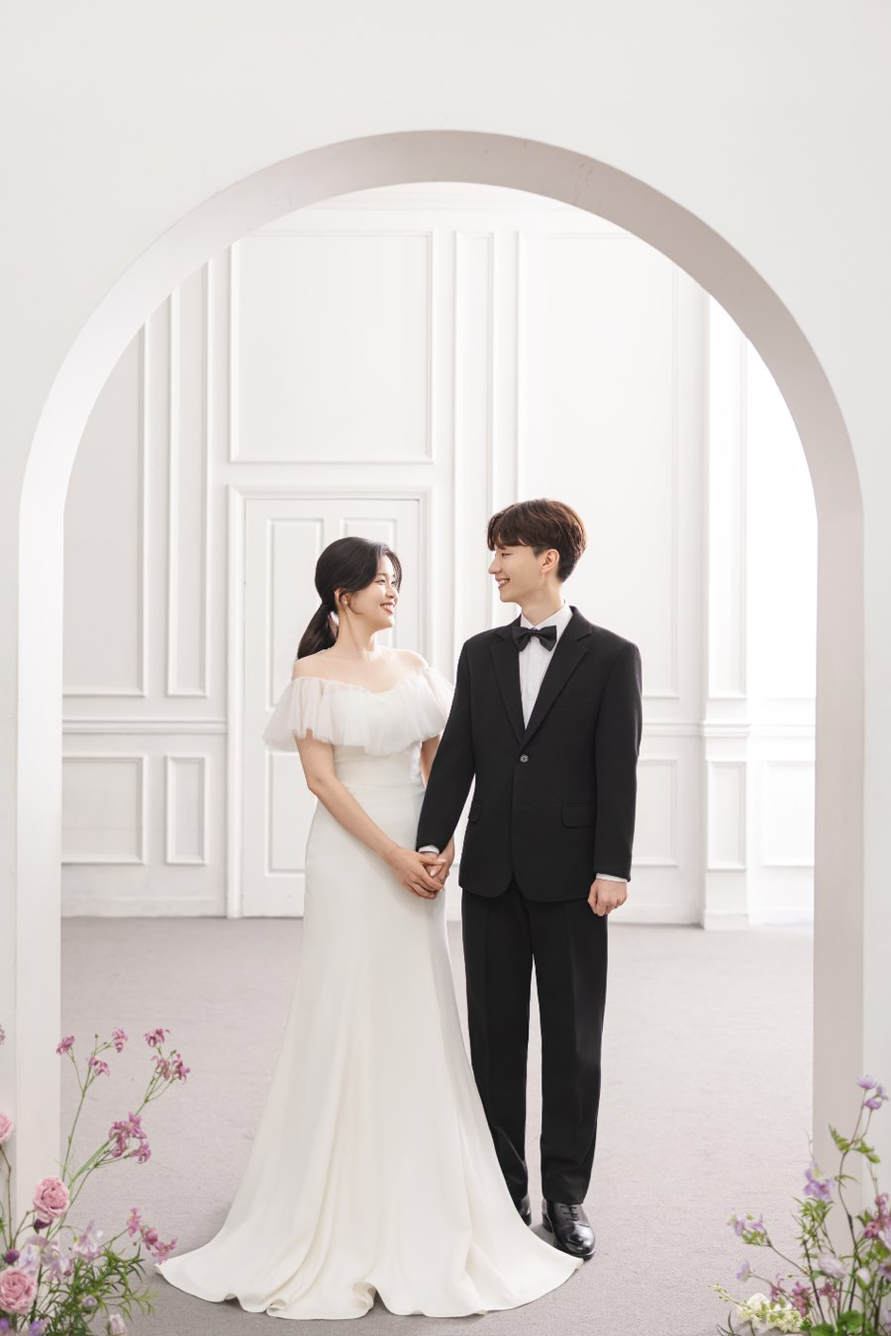
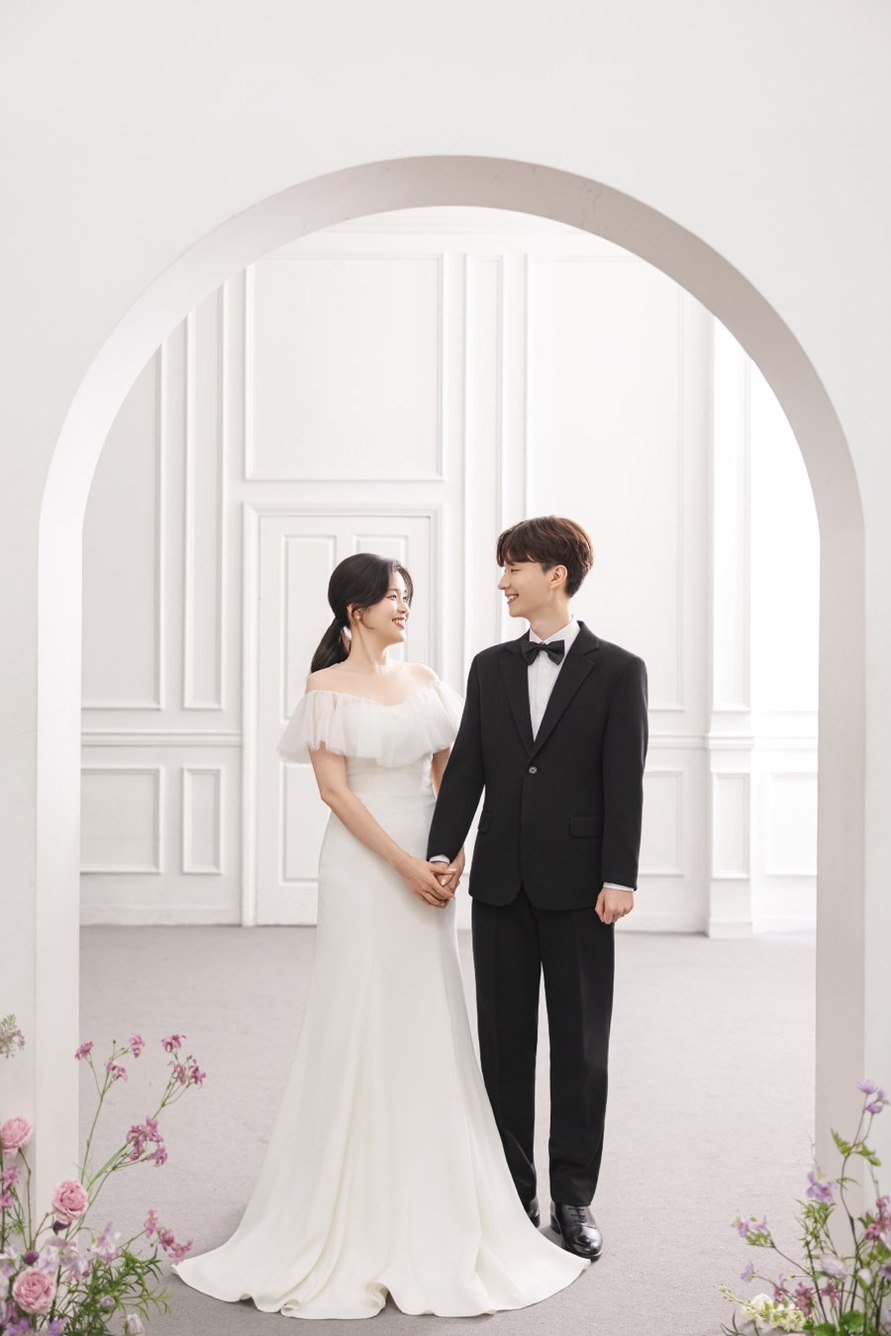
표지 원본을 더 큰 보정본으로 교체 + 크롭을 아치 곡선 기준으로 재정렬
imgs/S_아치두사람.png 을 1054x1584 보정본으로 갈아끼웠습니다 (직전 974x1430
대비 11% 큼). 표지는 전체 화면을 채우는 자리라 해상도가 아쉬웠던 부분입니다.

"왼쪽 아치가 더 내려와 보인다" 는 지적을 재봤습니다. 다리 구간은 좌우
대칭인데(여백 차 -1px) 꼭대기 곡선 구간만 +30px 쯤 틀어져 있었습니다.
카메라가 아치 중심축보다 왼쪽에 있어서 생긴 원근이라 원본을 바꿔도
그대로였습니다 (두 원본 모두 +33/+34/+28/+39 로 동일).

그래서 크롭 기준을 다리에서 곡선으로 옮겼습니다. x0 을 66(다리 기준)부터
106 까지 바꿔가며 화면에서 실측:

  x0= 66  곡선 +32  다리 -1
  x0= 80  곡선 +19  다리 -1
  x0= 93  곡선  +4  다리 -3   <- 채택 (둘 다 균형)
  x0=106  곡선 -13  다리 +33

93 에서 곡선과 다리가 동시에 맞습니다. 최종 렌더 실측 곡선 +6px / 다리 -3px
(교체 전 곡선 +30 안팎).

alt/assets/g05(2:3 갤러리 컷)도 같은 원본에서 다시 뽑았고, alt2 는
../assets/cover.jpg 를 참조해 자동으로 따라옵니다. og.jpg 는 꽃 컷 고정이라
그대로입니다.

캐시 버전 ?v=22 -> ?v=23 (세 페이지 모두).

확인: 세 페이지 19장 로드 실패 0건 / 버전 누락 0건, alt 표지는 꽃 컷
그대로(845x1522), alt2 표지 사진 2장 유지.

Assisted-by: Claude Code (Opus 5)

diff --git a/alt2/index.html b/alt2/index.html
@@ -10,7 +10,7 @@
 <meta property="og:title" content="이수영 ♥ 이정은 결혼합니다">
 <meta property="og:description" content="2026년 12월 12일 토요일 오후 4시, 세인트메리엘 1층 메리엘홀">
 <meta property="og:url" content="https://suyoung-lee.github.io/wedding/">
-<meta property="og:image" content="https://suyoung-lee.github.io/wedding/assets/og.jpg?v=22">
+<meta property="og:image" content="https://suyoung-lee.github.io/wedding/assets/og.jpg?v=23">
 <meta name="description" content="2026년 12월 12일 토요일 오후 4시, 세인트메리엘 1층 메리엘홀">
 <meta name="robots" content="noindex, nofollow">   <!-- 비교용 미리보기 -->
 <meta name="theme-color" content="#fbfaf7">
@@ -288,8 +288,8 @@
   <header class="cover">
     <div class="photo noSave">
       <!-- 아래: 얼굴이 보이는 컷(현재 메인 표지). 위: 꽃으로 가린 컷 — 스크롤하면 걷힙니다. -->
-      <img src="../assets/cover.jpg?v=22" alt="신랑 이수영, 신부 이정은" draggable="false">
-      <img class="veil" src="assets/cover-a.jpg?v=22" alt="" aria-hidden="true" draggable="false">
+      <img src="../assets/cover.jpg?v=23" alt="신랑 이수영, 신부 이정은" draggable="false">
+      <img class="veil" src="assets/cover-a.jpg?v=23" alt="" aria-hidden="true" draggable="false">
     </div>
     <div class="fade"></div>
     <div class="frame"></div>
@@ -360,25 +360,25 @@
   <section>
     <p class="label">Gallery</p>
     <div class="grid collapsed noSave" id="grid">
-      <button class="ph wide" type="button" data-full="../assets/g01.jpg?v=22" aria-label="웨딩 사진 1번, 크게 보기"><img src="../assets/wide.jpg?v=22" alt="" loading="lazy"></button>
-      <button class="ph" type="button" data-full="../assets/g02.jpg?v=22" aria-label="웨딩 사진 2번, 크게 보기"><img src="../assets/t02.jpg?v=22" alt="" loading="lazy"></button>
-      <button class="ph" type="button" data-full="../assets/g03.jpg?v=22" aria-label="웨딩 사진 3번, 크게 보기"><img src="../assets/t03.jpg?v=22" alt="" loading="lazy"></button>
-      <button class="ph" type="button" data-full="../assets/g04.jpg?v=22" aria-label="웨딩 사진 4번, 크게 보기"><img src="../assets/t04.jpg?v=22" alt="" loading="lazy"></button>
-      <button class="ph" type="button" data-full="../assets/g05.jpg?v=22" aria-label="웨딩 사진 5번, 크게 보기"><img src="../assets/t05.jpg?v=22" alt="" loading="lazy"></button>
-      <button class="ph" type="button" data-full="../assets/g06.jpg?v=22" aria-label="웨딩 사진 6번, 크게 보기"><img src="../assets/t06.jpg?v=22" alt="" loading="lazy"></button>
-      <button class="ph" type="button" data-full="../assets/g07.jpg?v=22" aria-label="웨딩 사진 7번, 크게 보기"><img src="../assets/t07.jpg?v=22" alt="" loading="lazy"></button>
-      <button class="ph" type="button" data-full="../assets/g08.jpg?v=22" aria-label="웨딩 사진 8번, 크게 보기"><img src="../assets/t08.jpg?v=22" alt="" loading="lazy"></button>
-      <button class="ph" type="button" data-full="../assets/g09.jpg?v=22" aria-label="웨딩 사진 9번, 크게 보기"><img src="../assets/t09.jpg?v=22" alt="" loading="lazy"></button>
-      <button class="ph" type="button" data-full="../assets/g10.jpg?v=22" aria-label="웨딩 사진 10번, 크게 보기"><img src="../assets/t10.jpg?v=22" alt="" loading="lazy"></button>
-      <button class="ph" type="button" data-full="../assets/g11.jpg?v=22" aria-label="웨딩 사진 11번, 크게 보기"><img src="../assets/t11.jpg?v=22" alt="" loading="lazy"></button>
-      <button class="ph" type="button" data-full="../assets/g12.jpg?v=22" aria-label="웨딩 사진 12번, 크게 보기"><img src="../assets/t12.jpg?v=22" alt="" loading="lazy"></button>
-      <button class="ph" type="button" data-full="../assets/g13.jpg?v=22" aria-label="웨딩 사진 13번, 크게 보기"><img src="../assets/t13.jpg?v=22" alt="" loading="lazy"></button>
-      <button class="ph" type="button" data-full="../assets/g14.jpg?v=22" aria-label="웨딩 사진 14번, 크게 보기"><img src="../assets/t14.jpg?v=22" alt="" loading="lazy"></button>
-      <button class="ph" type="button" data-full="../assets/g15.jpg?v=22" aria-label="웨딩 사진 15번, 크게 보기"><img src="../assets/t15.jpg?v=22" alt="" loading="lazy"></button>
-      <button class="ph" type="button" data-full="../assets/g16.jpg?v=22" aria-label="웨딩 사진 16번, 크게 보기"><img src="../assets/t16.jpg?v=22" alt="" loading="lazy"></button>
-      <button class="ph" type="button" data-full="../assets/g17.jpg?v=22" aria-label="웨딩 사진 17번, 크게 보기"><img src="../assets/t17.jpg?v=22" alt="" loading="lazy"></button>
-      <button class="ph" type="button" data-full="../assets/g18.jpg?v=22" aria-label="웨딩 사진 18번, 크게 보기"><img src="../assets/t18.jpg?v=22" alt="" loading="lazy"></button>
-      <button class="ph" type="button" data-full="../assets/g19.jpg?v=22" aria-label="웨딩 사진 19번, 크게 보기"><img src="../assets/t19.jpg?v=22" alt="" loading="lazy"></button>
+      <button class="ph wide" type="button" data-full="../assets/g01.jpg?v=23" aria-label="웨딩 사진 1번, 크게 보기"><img src="../assets/wide.jpg?v=23" alt="" loading="lazy"></button>
+      <button class="ph" type="button" data-full="../assets/g02.jpg?v=23" aria-label="웨딩 사진 2번, 크게 보기"><img src="../assets/t02.jpg?v=23" alt="" loading="lazy"></button>
+      <button class="ph" type="button" data-full="../assets/g03.jpg?v=23" aria-label="웨딩 사진 3번, 크게 보기"><img src="../assets/t03.jpg?v=23" alt="" loading="lazy"></button>
+      <button class="ph" type="button" data-full="../assets/g04.jpg?v=23" aria-label="웨딩 사진 4번, 크게 보기"><img src="../assets/t04.jpg?v=23" alt="" loading="lazy"></button>
+      <button class="ph" type="button" data-full="../assets/g05.jpg?v=23" aria-label="웨딩 사진 5번, 크게 보기"><img src="../assets/t05.jpg?v=23" alt="" loading="lazy"></button>
+      <button class="ph" type="button" data-full="../assets/g06.jpg?v=23" aria-label="웨딩 사진 6번, 크게 보기"><img src="../assets/t06.jpg?v=23" alt="" loading="lazy"></button>
+      <button class="ph" type="button" data-full="../assets/g07.jpg?v=23" aria-label="웨딩 사진 7번, 크게 보기"><img src="../assets/t07.jpg?v=23" alt="" loading="lazy"></button>
+      <button class="ph" type="button" data-full="../assets/g08.jpg?v=23" aria-label="웨딩 사진 8번, 크게 보기"><img src="../assets/t08.jpg?v=23" alt="" loading="lazy"></button>
+      <button class="ph" type="button" data-full="../assets/g09.jpg?v=23" aria-label="웨딩 사진 9번, 크게 보기"><img src="../assets/t09.jpg?v=23" alt="" loading="lazy"></button>
+      <button class="ph" type="button" data-full="../assets/g10.jpg?v=23" aria-label="웨딩 사진 10번, 크게 보기"><img src="../assets/t10.jpg?v=23" alt="" loading="lazy"></button>
+      <button class="ph" type="button" data-full="../assets/g11.jpg?v=23" aria-label="웨딩 사진 11번, 크게 보기"><img src="../assets/t11.jpg?v=23" alt="" loading="lazy"></button>
+      <button class="ph" type="button" data-full="../assets/g12.jpg?v=23" aria-label="웨딩 사진 12번, 크게 보기"><img src="../assets/t12.jpg?v=23" alt="" loading="lazy"></button>
+      <button class="ph" type="button" data-full="../assets/g13.jpg?v=23" aria-label="웨딩 사진 13번, 크게 보기"><img src="../assets/t13.jpg?v=23" alt="" loading="lazy"></button>
+      <button class="ph" type="button" data-full="../assets/g14.jpg?v=23" aria-label="웨딩 사진 14번, 크게 보기"><img src="../assets/t14.jpg?v=23" alt="" loading="lazy"></button>
+      <button class="ph" type="button" data-full="../assets/g15.jpg?v=23" aria-label="웨딩 사진 15번, 크게 보기"><img src="../assets/t15.jpg?v=23" alt="" loading="lazy"></button>
+      <button class="ph" type="button" data-full="../assets/g16.jpg?v=23" aria-label="웨딩 사진 16번, 크게 보기"><img src="../assets/t16.jpg?v=23" alt="" loading="lazy"></button>
+      <button class="ph" type="button" data-full="../assets/g17.jpg?v=23" aria-label="웨딩 사진 17번, 크게 보기"><img src="../assets/t17.jpg?v=23" alt="" loading="lazy"></button>
+      <button class="ph" type="button" data-full="../assets/g18.jpg?v=23" aria-label="웨딩 사진 18번, 크게 보기"><img src="../assets/t18.jpg?v=23" alt="" loading="lazy"></button>
+      <button class="ph" type="button" data-full="../assets/g19.jpg?v=23" aria-label="웨딩 사진 19번, 크게 보기"><img src="../assets/t19.jpg?v=23" alt="" loading="lazy"></button>
     </div>
     <button class="more" type="button" id="more">사진 더보기<span class="chev" aria-hidden="true"></span></button>
   </section>
@@ -391,8 +391,8 @@
     <h2>세인트메리엘</h2>
     <p class="sub">1층 메리엘홀</p>
 
-    <a class="mapWrap noSave" href="../assets/map-full.png?v=22" target="_blank" rel="noopener">
-      <img src="../assets/map.png?v=22" alt="세인트메리엘 약도" loading="lazy" draggable="false">
+    <a class="mapWrap noSave" href="../assets/map-full.png?v=23" target="_blank" rel="noopener">
+      <img src="../assets/map.png?v=23" alt="세인트메리엘 약도" loading="lazy" draggable="false">
     </a>
     <p class="mapHint">약도를 누르면 크게 볼 수 있습니다</p>
 

diff --git a/alt/index.html b/alt/index.html
@@ -10,7 +10,7 @@
 <meta property="og:title" content="이수영 ♥ 이정은 결혼합니다">
 <meta property="og:description" content="2026년 12월 12일 토요일 오후 4시, 세인트메리엘 1층 메리엘홀">
 <meta property="og:url" content="https://suyoung-lee.github.io/wedding/">
-<meta property="og:image" content="https://suyoung-lee.github.io/wedding/assets/og.jpg?v=22">
+<meta property="og:image" content="https://suyoung-lee.github.io/wedding/assets/og.jpg?v=23">
 <meta name="description" content="2026년 12월 12일 토요일 오후 4시, 세인트메리엘 1층 메리엘홀">
 <meta name="robots" content="noindex, nofollow">   <!-- 보관용 이전 배치 -->
 <meta name="theme-color" content="#fbfaf7">
@@ -284,7 +284,7 @@
   <!-- ══════════ 표지 ══════════ -->
   <header class="cover">
     <div class="photo noSave">
-      <img src="assets/cover.jpg?v=22" alt="신랑 이수영, 신부 이정은" draggable="false">
+      <img src="assets/cover.jpg?v=23" alt="신랑 이수영, 신부 이정은" draggable="false">
     </div>
     <div class="fade"></div>
     <div class="frame"></div>
@@ -355,25 +355,25 @@
   <section>
     <p class="label">Gallery</p>
     <div class="grid collapsed noSave" id="grid">
-      <button class="ph wide" type="button" data-full="../assets/g01.jpg?v=22" aria-label="웨딩 사진 1번, 크게 보기"><img src="../assets/wide.jpg?v=22" alt="" loading="lazy"></button>
-      <button class="ph" type="button" data-full="../assets/g02.jpg?v=22" aria-label="웨딩 사진 2번, 크게 보기"><img src="../assets/t02.jpg?v=22" alt="" loading="lazy"></button>
-      <button class="ph" type="button" data-full="../assets/g03.jpg?v=22" aria-label="웨딩 사진 3번, 크게 보기"><img src="../assets/t03.jpg?v=22" alt="" loading="lazy"></button>
-      <button class="ph" type="button" data-full="../assets/g04.jpg?v=22" aria-label="웨딩 사진 4번, 크게 보기"><img src="../assets/t04.jpg?v=22" alt="" loading="lazy"></button>
-      <button class="ph" type="button" data-full="assets/g05.jpg?v=22" aria-label="웨딩 사진 5번, 크게 보기"><img src="assets/t05.jpg?v=22" alt="" loading="lazy"></button>
-      <button class="ph" type="button" data-full="../assets/g06.jpg?v=22" aria-label="웨딩 사진 6번, 크게 보기"><img src="../assets/t06.jpg?v=22" alt="" loading="lazy"></button>
-      <button class="ph" type="button" data-full="../assets/g05.jpg?v=22" aria-label="웨딩 사진 7번, 크게 보기"><img src="../assets/t05.jpg?v=22" alt="" loading="lazy"></button>
-      <button class="ph" type="button" data-full="../assets/g07.jpg?v=22" aria-label="웨딩 사진 8번, 크게 보기"><img src="../assets/t07.jpg?v=22" alt="" loading="lazy"></button>
-      <button class="ph" type="button" data-full="../assets/g09.jpg?v=22" aria-label="웨딩 사진 9번, 크게 보기"><img src="../assets/t09.jpg?v=22" alt="" loading="lazy"></button>
-      <button class="ph" type="button" data-full="../assets/g10.jpg?v=22" aria-label="웨딩 사진 10번, 크게 보기"><img src="../assets/t10.jpg?v=22" alt="" loading="lazy"></button>
-      <button class="ph" type="button" data-full="../assets/g11.jpg?v=22" aria-label="웨딩 사진 11번, 크게 보기"><img src="../assets/t11.jpg?v=22" alt="" loading="lazy"></button>
-      <button class="ph" type="button" data-full="../assets/g12.jpg?v=22" aria-label="웨딩 사진 12번, 크게 보기"><img src="../assets/t12.jpg?v=22" alt="" loading="lazy"></button>
-      <button class="ph" type="button" data-full="../assets/g13.jpg?v=22" aria-label="웨딩 사진 13번, 크게 보기"><img src="../assets/t13.jpg?v=22" alt="" loading="lazy"></button>
-      <button class="ph" type="button" data-full="../assets/g14.jpg?v=22" aria-label="웨딩 사진 14번, 크게 보기"><img src="../assets/t14.jpg?v=22" alt="" loading="lazy"></button>
-      <button class="ph" type="button" data-full="../assets/g15.jpg?v=22" aria-label="웨딩 사진 15번, 크게 보기"><img src="../assets/t15.jpg?v=22" alt="" loading="lazy"></button>
-      <button class="ph" type="button" data-full="../assets/g16.jpg?v=22" aria-label="웨딩 사진 16번, 크게 보기"><img src="../assets/t16.jpg?v=22" alt="" loading="lazy"></button>
-      <button class="ph" type="button" data-full="../assets/g17.jpg?v=22" aria-label="웨딩 사진 17번, 크게 보기"><img src="../assets/t17.jpg?v=22" alt="" loading="lazy"></button>
-      <button class="ph" type="button" data-full="../assets/g18.jpg?v=22" aria-label="웨딩 사진 18번, 크게 보기"><img src="../assets/t18.jpg?v=22" alt="" loading="lazy"></button>
-      <button class="ph" type="button" data-full="../assets/g19.jpg?v=22" aria-label="웨딩 사진 19번, 크게 보기"><img src="../assets/t19.jpg?v=22" alt="" loading="lazy"></button>
+      <button class="ph wide" type="button" data-full="../assets/g01.jpg?v=23" aria-label="웨딩 사진 1번, 크게 보기"><img src="../assets/wide.jpg?v=23" alt="" loading="lazy"></button>
+      <button class="ph" type="button" data-full="../assets/g02.jpg?v=23" aria-label="웨딩 사진 2번, 크게 보기"><img src="../assets/t02.jpg?v=23" alt="" loading="lazy"></button>
+      <button class="ph" type="button" data-full="../assets/g03.jpg?v=23" aria-label="웨딩 사진 3번, 크게 보기"><img src="../assets/t03.jpg?v=23" alt="" loading="lazy"></button>
+      <button class="ph" type="button" data-full="../assets/g04.jpg?v=23" aria-label="웨딩 사진 4번, 크게 보기"><img src="../assets/t04.jpg?v=23" alt="" loading="lazy"></button>
+      <button class="ph" type="button" data-full="assets/g05.jpg?v=23" aria-label="웨딩 사진 5번, 크게 보기"><img src="assets/t05.jpg?v=23" alt="" loading="lazy"></button>
+      <button class="ph" type="button" data-full="../assets/g06.jpg?v=23" aria-label="웨딩 사진 6번, 크게 보기"><img src="../assets/t06.jpg?v=23" alt="" loading="lazy"></button>
+      <button class="ph" type="button" data-full="../assets/g05.jpg?v=23" aria-label="웨딩 사진 7번, 크게 보기"><img src="../assets/t05.jpg?v=23" alt="" loading="lazy"></button>
+      <button class="ph" type="button" data-full="../assets/g07.jpg?v=23" aria-label="웨딩 사진 8번, 크게 보기"><img src="../assets/t07.jpg?v=23" alt="" loading="lazy"></button>
+      <button class="ph" type="button" data-full="../assets/g09.jpg?v=23" aria-label="웨딩 사진 9번, 크게 보기"><img src="../assets/t09.jpg?v=23" alt="" loading="lazy"></button>
+      <button class="ph" type="button" data-full="../assets/g10.jpg?v=23" aria-label="웨딩 사진 10번, 크게 보기"><img src="../assets/t10.jpg?v=23" alt="" loading="lazy"></button>
+      <button class="ph" type="button" data-full="../assets/g11.jpg?v=23" aria-label="웨딩 사진 11번, 크게 보기"><img src="../assets/t11.jpg?v=23" alt="" loading="lazy"></button>
+      <button class="ph" type="button" data-full="../assets/g12.jpg?v=23" aria-label="웨딩 사진 12번, 크게 보기"><img src="../assets/t12.jpg?v=23" alt="" loading="lazy"></button>
+      <button class="ph" type="button" data-full="../assets/g13.jpg?v=23" aria-label="웨딩 사진 13번, 크게 보기"><img src="../assets/t13.jpg?v=23" alt="" loading="lazy"></button>
+      <button class="ph" type="button" data-full="../assets/g14.jpg?v=23" aria-label="웨딩 사진 14번, 크게 보기"><img src="../assets/t14.jpg?v=23" alt="" loading="lazy"></button>
+      <button class="ph" type="button" data-full="../assets/g15.jpg?v=23" aria-label="웨딩 사진 15번, 크게 보기"><img src="../assets/t15.jpg?v=23" alt="" loading="lazy"></button>
+      <button class="ph" type="button" data-full="../assets/g16.jpg?v=23" aria-label="웨딩 사진 16번, 크게 보기"><img src="../assets/t16.jpg?v=23" alt="" loading="lazy"></button>
+      <button class="ph" type="button" data-full="../assets/g17.jpg?v=23" aria-label="웨딩 사진 17번, 크게 보기"><img src="../assets/t17.jpg?v=23" alt="" loading="lazy"></button>
+      <button class="ph" type="button" data-full="../assets/g18.jpg?v=23" aria-label="웨딩 사진 18번, 크게 보기"><img src="../assets/t18.jpg?v=23" alt="" loading="lazy"></button>
+      <button class="ph" type="button" data-full="../assets/g19.jpg?v=23" aria-label="웨딩 사진 19번, 크게 보기"><img src="../assets/t19.jpg?v=23" alt="" loading="lazy"></button>
     </div>
     <button class="more" type="button" id="more">사진 더보기<span class="chev" aria-hidden="true"></span></button>
   </section>
@@ -386,8 +386,8 @@
     <h2>세인트메리엘</h2>
     <p class="sub">1층 메리엘홀</p>
 
-    <a class="mapWrap noSave" href="../assets/map-full.png?v=22" target="_blank" rel="noopener">
-      <img src="../assets/map.png?v=22" alt="세인트메리엘 약도" loading="lazy" draggable="false">
+    <a class="mapWrap noSave" href="../assets/map-full.png?v=23" target="_blank" rel="noopener">
+      <img src="../assets/map.png?v=23" alt="세인트메리엘 약도" loading="lazy" draggable="false">
     </a>
     <p class="mapHint">약도를 누르면 크게 볼 수 있습니다</p>
 

diff --git a/index.html b/index.html
@@ -10,7 +10,7 @@
 <meta property="og:title" content="이수영 ♥ 이정은 결혼합니다">
 <meta property="og:description" content="2026년 12월 12일 토요일 오후 4시, 세인트메리엘 1층 메리엘홀">
 <meta property="og:url" content="https://suyoung-lee.github.io/wedding/">
-<meta property="og:image" content="https://suyoung-lee.github.io/wedding/assets/og.jpg?v=22">
+<meta property="og:image" content="https://suyoung-lee.github.io/wedding/assets/og.jpg?v=23">
 <meta name="description" content="2026년 12월 12일 토요일 오후 4시, 세인트메리엘 1층 메리엘홀">
 <meta name="theme-color" content="#fbfaf7">
 
@@ -283,7 +283,7 @@
   <!-- ══════════ 표지 ══════════ -->
   <header class="cover">
     <div class="photo noSave">
-      <img src="assets/cover.jpg?v=22" alt="신랑 이수영, 신부 이정은" draggable="false">
+      <img src="assets/cover.jpg?v=23" alt="신랑 이수영, 신부 이정은" draggable="false">
     </div>
     <div class="fade"></div>
     <div class="frame"></div>
@@ -354,25 +354,25 @@
   <section>
     <p class="label">Gallery</p>
     <div class="grid collapsed noSave" id="grid">
-      <button class="ph wide" type="button" data-full="assets/g01.jpg?v=22" aria-label="웨딩 사진 1번, 크게 보기"><img src="assets/wide.jpg?v=22" alt="" loading="lazy"></button>
-      <button class="ph" type="button" data-full="assets/g02.jpg?v=22" aria-label="웨딩 사진 2번, 크게 보기"><img src="assets/t02.jpg?v=22" alt="" loading="lazy"></button>
-      <button class="ph" type="button" data-full="assets/g03.jpg?v=22" aria-label="웨딩 사진 3번, 크게 보기"><img src="assets/t03.jpg?v=22" alt="" loading="lazy"></button>
-      <button class="ph" type="button" data-full="assets/g04.jpg?v=22" aria-label="웨딩 사진 4번, 크게 보기"><img src="assets/t04.jpg?v=22" alt="" loading="lazy"></button>
-      <button class="ph" type="button" data-full="assets/g05.jpg?v=22" aria-label="웨딩 사진 5번, 크게 보기"><img src="assets/t05.jpg?v=22" alt="" loading="lazy"></button>
-      <button class="ph" type="button" data-full="assets/g06.jpg?v=22" aria-label="웨딩 사진 6번, 크게 보기"><img src="assets/t06.jpg?v=22" alt="" loading="lazy"></button>
-      <button class="ph" type="button" data-full="assets/g07.jpg?v=22" aria-label="웨딩 사진 7번, 크게 보기"><img src="assets/t07.jpg?v=22" alt="" loading="lazy"></button>
-      <button class="ph" type="button" data-full="assets/g08.jpg?v=22" aria-label="웨딩 사진 8번, 크게 보기"><img src="assets/t08.jpg?v=22" alt="" loading="lazy"></button>
-      <button class="ph" type="button" data-full="assets/g09.jpg?v=22" aria-label="웨딩 사진 9번, 크게 보기"><img src="assets/t09.jpg?v=22" alt="" loading="lazy"></button>
-      <button class="ph" type="button" data-full="assets/g10.jpg?v=22" aria-label="웨딩 사진 10번, 크게 보기"><img src="assets/t10.jpg?v=22" alt="" loading="lazy"></button>
-      <button class="ph" type="button" data-full="assets/g11.jpg?v=22" aria-label="웨딩 사진 11번, 크게 보기"><img src="assets/t11.jpg?v=22" alt="" loading="lazy"></button>
-      <button class="ph" type="button" data-full="assets/g12.jpg?v=22" aria-label="웨딩 사진 12번, 크게 보기"><img src="assets/t12.jpg?v=22" alt="" loading="lazy"></button>
-      <button class="ph" type="button" data-full="assets/g13.jpg?v=22" aria-label="웨딩 사진 13번, 크게 보기"><img src="assets/t13.jpg?v=22" alt="" loading="lazy"></button>
-      <button class="ph" type="button" data-full="assets/g14.jpg?v=22" aria-label="웨딩 사진 14번, 크게 보기"><img src="assets/t14.jpg?v=22" alt="" loading="lazy"></button>
-      <button class="ph" type="button" data-full="assets/g15.jpg?v=22" aria-label="웨딩 사진 15번, 크게 보기"><img src="assets/t15.jpg?v=22" alt="" loading="lazy"></button>
-      <button class="ph" type="button" data-full="assets/g16.jpg?v=22" aria-label="웨딩 사진 16번, 크게 보기"><img src="assets/t16.jpg?v=22" alt="" loading="lazy"></button>
-      <button class="ph" type="button" data-full="assets/g17.jpg?v=22" aria-label="웨딩 사진 17번, 크게 보기"><img src="assets/t17.jpg?v=22" alt="" loading="lazy"></button>
-      <button class="ph" type="button" data-full="assets/g18.jpg?v=22" aria-label="웨딩 사진 18번, 크게 보기"><img src="assets/t18.jpg?v=22" alt="" loading="lazy"></button>
-      <button class="ph" type="button" data-full="assets/g19.jpg?v=22" aria-label="웨딩 사진 19번, 크게 보기"><img src="assets/t19.jpg?v=22" alt="" loading="lazy"></button>
+      <button class="ph wide" type="button" data-full="assets/g01.jpg?v=23" aria-label="웨딩 사진 1번, 크게 보기"><img src="assets/wide.jpg?v=23" alt="" loading="lazy"></button>
+      <button class="ph" type="button" data-full="assets/g02.jpg?v=23" aria-label="웨딩 사진 2번, 크게 보기"><img src="assets/t02.jpg?v=23" alt="" loading="lazy"></button>
+      <button class="ph" type="button" data-full="assets/g03.jpg?v=23" aria-label="웨딩 사진 3번, 크게 보기"><img src="assets/t03.jpg?v=23" alt="" loading="lazy"></button>
+      <button class="ph" type="button" data-full="assets/g04.jpg?v=23" aria-label="웨딩 사진 4번, 크게 보기"><img src="assets/t04.jpg?v=23" alt="" loading="lazy"></button>
+      <button class="ph" type="button" data-full="assets/g05.jpg?v=23" aria-label="웨딩 사진 5번, 크게 보기"><img src="assets/t05.jpg?v=23" alt="" loading="lazy"></button>
+      <button class="ph" type="button" data-full="assets/g06.jpg?v=23" aria-label="웨딩 사진 6번, 크게 보기"><img src="assets/t06.jpg?v=23" alt="" loading="lazy"></button>
+      <button class="ph" type="button" data-full="assets/g07.jpg?v=23" aria-label="웨딩 사진 7번, 크게 보기"><img src="assets/t07.jpg?v=23" alt="" loading="lazy"></button>
+      <button class="ph" type="button" data-full="assets/g08.jpg?v=23" aria-label="웨딩 사진 8번, 크게 보기"><img src="assets/t08.jpg?v=23" alt="" loading="lazy"></button>
+      <button class="ph" type="button" data-full="assets/g09.jpg?v=23" aria-label="웨딩 사진 9번, 크게 보기"><img src="assets/t09.jpg?v=23" alt="" loading="lazy"></button>
+      <button class="ph" type="button" data-full="assets/g10.jpg?v=23" aria-label="웨딩 사진 10번, 크게 보기"><img src="assets/t10.jpg?v=23" alt="" loading="lazy"></button>
+      <button class="ph" type="button" data-full="assets/g11.jpg?v=23" aria-label="웨딩 사진 11번, 크게 보기"><img src="assets/t11.jpg?v=23" alt="" loading="lazy"></button>
+      <button class="ph" type="button" data-full="assets/g12.jpg?v=23" aria-label="웨딩 사진 12번, 크게 보기"><img src="assets/t12.jpg?v=23" alt="" loading="lazy"></button>
+      <button class="ph" type="button" data-full="assets/g13.jpg?v=23" aria-label="웨딩 사진 13번, 크게 보기"><img src="assets/t13.jpg?v=23" alt="" loading="lazy"></button>
+      <button class="ph" type="button" data-full="assets/g14.jpg?v=23" aria-label="웨딩 사진 14번, 크게 보기"><img src="assets/t14.jpg?v=23" alt="" loading="lazy"></button>
+      <button class="ph" type="button" data-full="assets/g15.jpg?v=23" aria-label="웨딩 사진 15번, 크게 보기"><img src="assets/t15.jpg?v=23" alt="" loading="lazy"></button>
+      <button class="ph" type="button" data-full="assets/g16.jpg?v=23" aria-label="웨딩 사진 16번, 크게 보기"><img src="assets/t16.jpg?v=23" alt="" loading="lazy"></button>
+      <button class="ph" type="button" data-full="assets/g17.jpg?v=23" aria-label="웨딩 사진 17번, 크게 보기"><img src="assets/t17.jpg?v=23" alt="" loading="lazy"></button>
+      <button class="ph" type="button" data-full="assets/g18.jpg?v=23" aria-label="웨딩 사진 18번, 크게 보기"><img src="assets/t18.jpg?v=23" alt="" loading="lazy"></button>
+      <button class="ph" type="button" data-full="assets/g19.jpg?v=23" aria-label="웨딩 사진 19번, 크게 보기"><img src="assets/t19.jpg?v=23" alt="" loading="lazy"></button>
     </div>
     <button class="more" type="button" id="more">사진 더보기<span class="chev" aria-hidden="true"></span></button>
   </section>
@@ -385,8 +385,8 @@
     <h2>세인트메리엘</h2>
     <p class="sub">1층 메리엘홀</p>
 
-    <a class="mapWrap noSave" href="assets/map-full.png?v=22" target="_blank" rel="noopener">
-      <img src="assets/map.png?v=22" alt="세인트메리엘 약도" loading="lazy" draggable="false">
+    <a class="mapWrap noSave" href="assets/map-full.png?v=23" target="_blank" rel="noopener">
+      <img src="assets/map.png?v=23" alt="세인트메리엘 약도" loading="lazy" draggable="false">
     </a>
     <p class="mapHint">약도를 누르면 크게 볼 수 있습니다</p>
 
